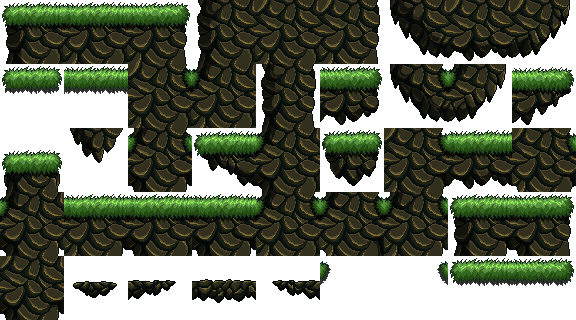
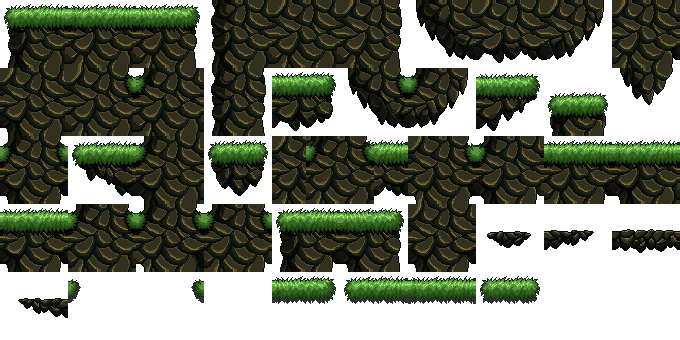
Create the new map with the proper tileset.

diff --git a/src/entities/Player.js b/src/entities/Player.js
@@ -17,8 +17,8 @@ class Player extends Phaser.Physics.Arcade.Sprite {
     }
 
     initialize() {
-        this.gravity = 600;
-        this.playerSpeed = 150;
+        this.gravity = 700;
+        this.playerVelocity = 140;
         this.jumpCount = 0;
         this.consecutiveJumps = 1;
         this.keyboards = this.scene.input.keyboard.createCursorKeys();
@@ -39,17 +39,17 @@ class Player extends Phaser.Physics.Arcade.Sprite {
         const onFloor = this.body.onFloor();
 
         if(left.isDown) {
-            this.setVelocityX(-this.playerSpeed);
+            this.setVelocityX(-this.playerVelocity);
             this.setFlipX(true);
         } else if(right.isDown) {
-            this.setVelocityX(this.playerSpeed);
+            this.setVelocityX(this.playerVelocity);
             this.setFlipX(false);
         } else {
             this.setVelocityX(0)
         }
 
         if((isSpaceJustDown || isSpaceUpDown) && (onFloor || this.jumpCount < this.consecutiveJumps)) {
-            this.setVelocityY(-this.playerSpeed * 3.4);
+            this.setVelocityY(-this.playerVelocity * 3.4);
             this.jumpCount++;
         }
 

diff --git a/src/scenes/Play.js b/src/scenes/Play.js
@@ -1,4 +1,4 @@
-import Phaser, { Display } from "phaser";
+import Phaser from "phaser";
 import Player from "../entities/Player";
 
 class Play extends Phaser.Scene {
@@ -27,7 +27,6 @@ class Play extends Phaser.Scene {
         map.addTilesetImage("forest_tiles", "tiles-1");
         map.addTilesetImage("forest_objects", "tiles-2");
         map.addTilesetImage("collider", "tiles-3");
-        map.addTilesetImage("test", "tiles-4");
         return map;
     }
 
@@ -35,8 +34,7 @@ class Play extends Phaser.Scene {
         const tileset1 = map.getTileset("forest_tiles");
         const tileset2 = map.getTileset("forest_objects");
         const tileset3 = map.getTileset("collider");
-        const tileset4 = map.getTileset("test");
-        const platforms = map.createStaticLayer("platforms", [tileset1, tileset4]);
+        const platforms = map.createStaticLayer("platforms", tileset1);
         const environment = map.createStaticLayer("environment", tileset2);
         const platformsColliders = map.createStaticLayer("platforms_colliders", tileset3);
         platformsColliders.setVisible(false);

diff --git a/src/index.js b/src/index.js
@@ -12,7 +12,7 @@ const SHARED_CONFIG = {
   mapOffsetHeight: MAP_HEIGHT > HEIGHT ? MAP_HEIGHT - HEIGHT : 0,
   width: WIDTH,
   height: HEIGHT,
-  zoomFactor: 1.5
+  zoomFactor: 1.4
 }
 
 const Scenes = [PreloadScene, PlayScene];
@@ -28,7 +28,7 @@ const config = {
   physics: {
     default: "arcade",
     arcade: {
-      //debug: true,
+      debug: true,
     }
   },
   scene: initScenes()

diff --git a/src/mixins/Collidable.js b/src/mixins/Collidable.js
@@ -1,4 +1,4 @@
-export default {
+    export default {
     addCollider(otherGameobject, callback) {
         this.scene.physics.add.collider(this, otherGameobject, callback, null, this);
     }
